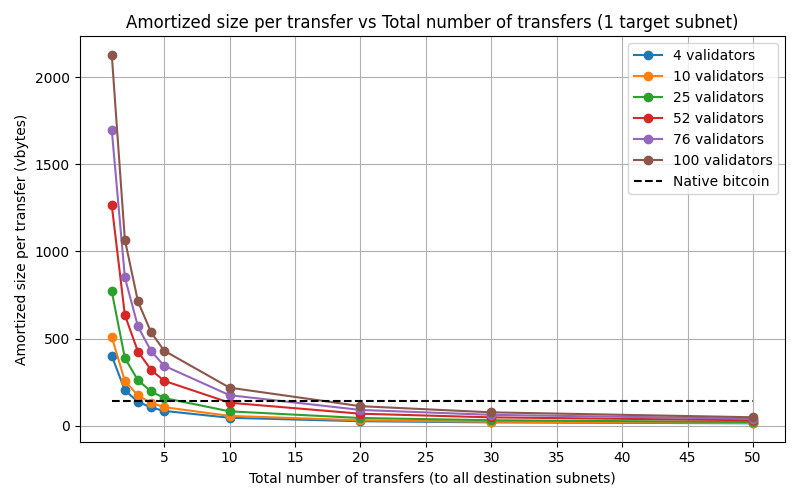
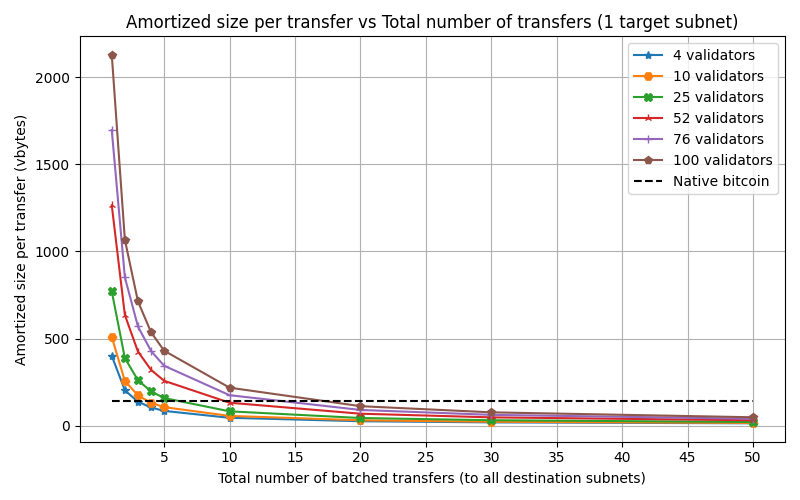
create plots for fee per transfer

diff --git a/bench-plots/plot.py b/bench-plots/plot.py
@@ -7,9 +7,14 @@ csv_file_transfer = 'bench-plots/bench-transfer-sizes.csv'
 csv_file_withdraw = 'bench-plots/bench-withdraw-sizes.csv'
 n_transfers_list_default = [1, 2, 3, 4, 5, 10, 20, 30, 50]
 
+fee_per_vb = 3.0  # Fee per vbyte for cost analysis
+
+markers_subnets = ['o', 's', 'D', 'v']
+markers_validators = ['*', 'H', 'X', '2', '+', 'p']
+markers_transfers = ['*', 'H', 'X', '2', '+', 'p']
 
 # Third plot: amortized size per transfer vs total number of transfers, for n_validators=4, one line per n_destination_subnets
-def plot3(filename, title, n_transfers_list, x_ticks):
+def plot3(filename, title, title_fee, n_transfers_list, x_ticks):
     n_target_subnets_list = [1, 2, 5, 10]
     transfers_dict = {n: [] for n in n_target_subnets_list}
     avg_sizes_dict = {n: [] for n in n_target_subnets_list}
@@ -29,14 +34,14 @@ def plot3(filename, title, n_transfers_list, x_ticks):
                     if n_transfers == 15000:
                         print(f'n_validators=4, n_transfers={n_transfers}, n_subnets={n_subnets}, amortized_size={total_size / float(n_transfers)}')
 
-
+    # First plot: size in vbytes
     plt.figure(figsize=(8, 5))
-    for n_subnets in n_target_subnets_list:
+    for i, n_subnets in enumerate(n_target_subnets_list):
         # Sort by n_transfers for each line for better plot
         pairs = sorted(zip(transfers_dict[n_subnets], avg_sizes_dict[n_subnets]))
         if pairs:
             x, y = zip(*pairs)
-            plt.plot(x, y, marker='o', label=f'{n_subnets} target subnets')
+            plt.plot(x, y, marker=markers_subnets[i % len(markers_subnets)], label=f'{n_subnets} target subnets')
 
     # Add Native bitcoin line
     defined_x_points = set()
@@ -54,6 +59,30 @@ def plot3(filename, title, n_transfers_list, x_ticks):
     plt.xticks(x_ticks)
     plt.tight_layout()
     plt.savefig(filename)
+
+    # Second plot: with fee multiplication
+    plt.figure(figsize=(8, 5))
+    for i, n_subnets in enumerate(n_target_subnets_list):
+        # Sort by n_transfers for each line for better plot
+        pairs = sorted(zip(transfers_dict[n_subnets], avg_sizes_dict[n_subnets]))
+        if pairs:
+            x, y = zip(*pairs)
+            y_fee = [size * fee_per_vb for size in y]
+            plt.plot(x, y_fee, marker=markers_subnets[i % len(markers_subnets)], label=f'{n_subnets} target subnets')
+
+    # Add Native bitcoin line (also multiplied by fee)
+    native_bitcoin_y_fee = [141 * fee_per_vb for _ in native_bitcoin_x]
+    plt.plot(native_bitcoin_x, native_bitcoin_y_fee, linestyle='--', color='black', label='Native bitcoin')
+
+    plt.xlabel('Total number of batched transfers (to all destination subnets)')
+    plt.ylabel(f'Amortized fee per transfer (in sats)')
+    # plt.title(f'{title} , using fee rate {fee_per_vb} sat / vB)- Cost Analysis')
+    plt.title(title_fee)
+    plt.grid(True)
+    plt.legend()
+    plt.xticks(x_ticks)
+    plt.tight_layout()
+    plt.savefig(filename.replace('.png', '_fee.png'))
 
 
 # First plot: total size of transfers vs number of validators, for varying number of transfers
@@ -74,8 +103,8 @@ with open(csv_file_transfer, newline='') as f:
                 total_sizes_dict[n_transfers].append(total_size)
 
 plt.figure(figsize=(8, 5))
-for n_transfers in n_transfers_list_default:
-    plt.plot(validators_dict[n_transfers], total_sizes_dict[n_transfers], marker='o', label=f'{n_transfers} total transfers')
+for i, n_transfers in enumerate(n_transfers_list_default):
+    plt.plot(validators_dict[n_transfers], total_sizes_dict[n_transfers], marker=markers_transfers[i % len(markers_transfers)], label=f'{n_transfers} total transfers')
 
 plt.xlabel('Number of validators in each subnet')
 plt.ylabel('Total size of transfers (vbytes)')
@@ -109,10 +138,11 @@ with open(csv_file_transfer, newline='') as f:
                         validators_dict[n_transfers].append(num_validators)
                         total_sizes_dict[n_transfers].append(total_size)
 
+# First plot: size in vbytes
 plt.figure(figsize=(8, 5))
-for n_transfers in n_transfers_list_for_plot:
+for i, n_transfers in enumerate(n_transfers_list_for_plot):
     avg_sizes = [total / float(n_transfers) for total in total_sizes_dict[n_transfers]]
-    plt.plot(validators_dict[n_transfers], avg_sizes, marker='o', label=f'{n_transfers} total transfers')
+    plt.plot(validators_dict[n_transfers], avg_sizes, marker=markers_transfers[i % len(markers_transfers)], label=f'{n_transfers} total transfers')
 
 plt.xlabel('Number of validators in source subnet')
 plt.ylabel('Amortized size per transfer (vbytes)')
@@ -122,17 +152,33 @@ plt.legend()
 plt.xticks(n_validators_list_for_plot)
 plt.tight_layout()
 plt.savefig(f'bench-plots/2-amortized_vsize_vs_n_validators_vary_n_transfers_{n_subnets_for_plot}_subnets.png')
+
+# Second plot: with fee multiplication
+plt.figure(figsize=(8, 5))
+for i, n_transfers in enumerate(n_transfers_list_for_plot):
+    avg_sizes = [total / float(n_transfers) for total in total_sizes_dict[n_transfers]]
+    avg_sizes_fee = [size * fee_per_vb for size in avg_sizes]
+    plt.plot(validators_dict[n_transfers], avg_sizes_fee, marker=markers_transfers[i % len(markers_transfers)], label=f'{n_transfers} total transfers')
+
+plt.xlabel('Number of validators in source subnet')
+plt.ylabel(f'Amortized fee per transfer (in sats)')
+plt.title(f'Fee per transfer vs Number of validators (1 target subnet, fee rate = {fee_per_vb} sat / vB)')
+plt.grid(True)
+plt.legend()
+plt.xticks(n_validators_list_for_plot)
+plt.tight_layout()
+plt.savefig(f'bench-plots/2-amortized_vsize_vs_n_validators_vary_n_transfers_{n_subnets_for_plot}_subnets_fee.png')
 # plt.show()
 
 
 # Third plot
-plot3('bench-plots/3-amortized_vsize_vs_n_transfers_vary_n_subnets.png', 'Amortized size per transfer vs. total number of transfers (4 validators)', n_transfers_list_default, [5,10,15,20,25,30,35,40,45,50])
+plot3('bench-plots/3-amortized_vsize_vs_n_transfers_vary_n_subnets.png', 'Amortized size per transfer vs. total number of transfers (4 validators)', f'Fee per transfer vs. total number of transfers (4 validators, fee rate = {fee_per_vb} sat / vB)', n_transfers_list_default, [5,10,15,20,25,30,35,40,45,50])
 
 # Third plot, take it to limits
-plot3('bench-plots/3B-amortized_vsize_vs_n_transfers_vary_n_subnets.png', 'Amortized size per transfer vs. total number of transfers (4 validators)',[1,2,3,5, 10,20,50, 100, 200, 500, 1000, 10000, 15000], [0,1000, 2000, 5000, 10000, 15000])
+plot3('bench-plots/3B-amortized_vsize_vs_n_transfers_vary_n_subnets.png', 'Amortized size per transfer vs. total number of transfers (4 validators)', f'Fee per transfer vs. total number of transfers (4 validators, fee rate = {fee_per_vb} sat / vB)',[1,2,3,5, 10,20,50, 100, 200, 500, 1000, 10000, 15000], [0,1000, 2000, 5000, 10000, 15000])
 
 # Third plot, zoom in
-plot3('bench-plots/3C-amortized_vsize_vs_n_transfers_vary_n_subnets.png', 'Amortized size per transfer vs. total number of transfers (4 validators, zoom-in)', [1,2,3,5, 10], [1,2,3,5, 10])
+plot3('bench-plots/3C-amortized_vsize_vs_n_transfers_vary_n_subnets.png', 'Amortized size per transfer vs. total number of transfers (4 validators, zoom-in)', f'Fee per transfer vs. total number of transfers (4 validators, fee rate = {fee_per_vb} sat / vB)', [1,2,3,5, 10], [1,2,3,5, 10])
 
 
 # Fourth plot: amortized size per transfer vs total number of transfers, for varying n_validators and n_destination_subnets=1
@@ -156,12 +202,13 @@ with open(csv_file_transfer, newline='') as f:
             avg_sizes_dict[n_validators].append(total_size / float(n_transfers))
 
 plt.figure(figsize=(8, 5))
-for n_validators in n_validators_list:
+
+for i, n_validators in enumerate(n_validators_list):
     # Sort by n_transfers for each line for better plot
     pairs = sorted(zip(transfers_dict[n_validators], avg_sizes_dict[n_validators]))
     if pairs:
         x, y = zip(*pairs)
-        plt.plot(x, y, marker='o', label=f'{n_validators} validators')
+        plt.plot(x, y, marker=markers_validators[i % len(markers_validators)], label=f'{n_validators} validators')
 
 # Add Native bitcoin line to plot 4
 defined_x_points_4 = set()
@@ -171,7 +218,7 @@ native_bitcoin_x_4 = sorted(defined_x_points_4)
 native_bitcoin_y_4 = [141 for _ in native_bitcoin_x_4]
 plt.plot(native_bitcoin_x_4, native_bitcoin_y_4, linestyle='--', color='black', label='Native bitcoin')
 
-plt.xlabel('Total number of transfers (to all destination subnets)')
+plt.xlabel('Total number of batched transfers (to all destination subnets)')
 plt.ylabel('Amortized size per transfer (vbytes)')
 plt.title(f'Amortized size per transfer vs Total number of transfers (1 target subnet)')
 plt.grid(True)
@@ -207,12 +254,13 @@ plt.savefig('bench-plots/5-withdraw_size_vs_n_withdrawals.png')
 
 # Sixth plot: total daily overhead vs checkpoint period
 
-overhead = 92  # vBytes
+overhead = 90  # vBytes
 checkpoint_periods = [0.5, 1, 2, 4, 8, 12, 16, 20, 24]  # hours
 
 daily_overheads = [overhead * (24 / period) for period in checkpoint_periods]
 print(daily_overheads)
 
+# First plot: size in vbytes
 plt.figure(figsize=(8, 5))
 plt.plot(checkpoint_periods, daily_overheads, marker='o')
 plt.xlabel('Checkpoint period (hours)')
@@ -222,4 +270,16 @@ plt.grid(True)
 plt.xticks([1, 2, 4, 8, 12, 16, 20, 24])
 plt.tight_layout()
 plt.savefig('bench-plots/6-daily_overhead_vs_checkpoint_period.png')
+
+# Second plot: with fee multiplication
+plt.figure(figsize=(8, 5))
+daily_overheads_fee = [overhead * fee_per_vb * (24 / period) for period in checkpoint_periods]
+plt.plot(checkpoint_periods, daily_overheads_fee, marker='o')
+plt.xlabel('Checkpoint period (hours)')
+plt.ylabel(f'Total daily fee cost (in sats)')
+plt.title(f'Total daily fee cost vs. checkpoint period (fee rate = {fee_per_vb} sat / vB)')
+plt.grid(True)
+plt.xticks([1, 2, 4, 8, 12, 16, 20, 24])
+plt.tight_layout()
+plt.savefig('bench-plots/6-daily_overhead_vs_checkpoint_period_fee.png')
 
